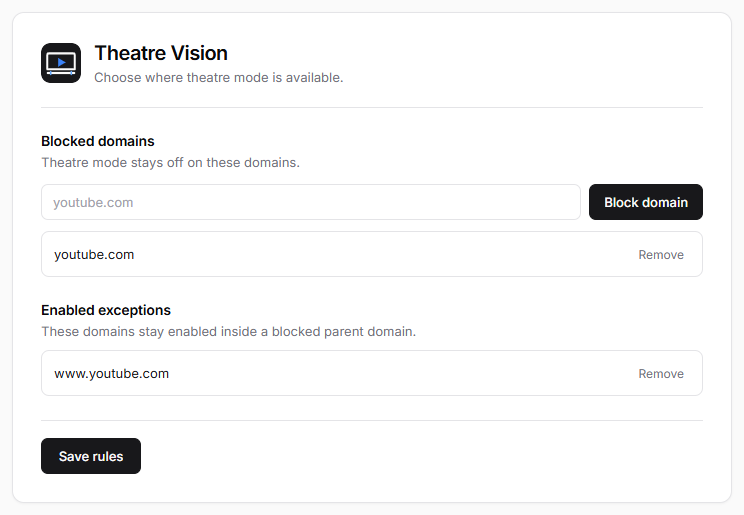
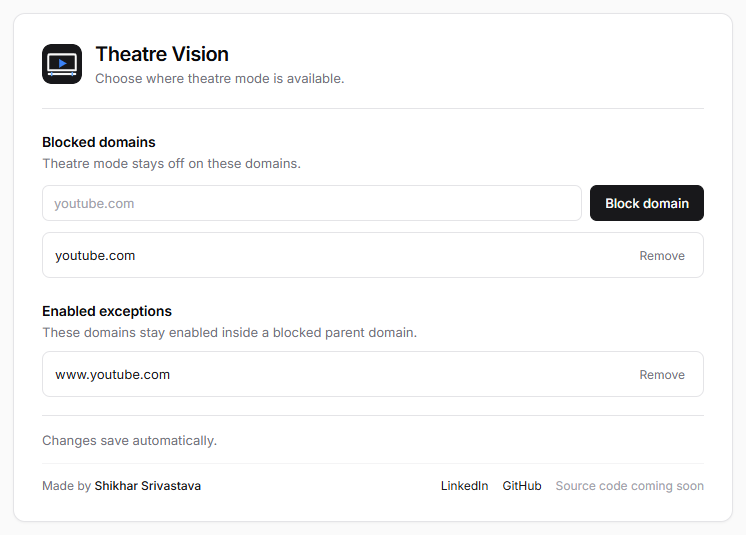
feat: auto-save site rules and add author links

diff --git a/options.js b/options.js
@@ -1,13 +1,14 @@
 const domainInput = document.getElementById("domainInput");
 const addButton = document.getElementById("addButton");
-const saveButton = document.getElementById("saveButton");
 const domainList = document.getElementById("domainList");
 const enabledList = document.getElementById("enabledList");
 const status = document.getElementById("status");
 
+const DEFAULT_STATUS = "Changes save automatically.";
 let disabledDomains = [];
 let enabledDomains = [];
 let statusTimer = 0;
+let saveQueue = Promise.resolve();
 
 function getStorage(defaults) {
   return new Promise((resolve, reject) => {
@@ -47,12 +48,12 @@ function normalizeDomains(domains) {
 
 function showStatus(message, isError = false) {
   clearTimeout(statusTimer);
-  status.textContent = message;
+  status.textContent = message || DEFAULT_STATUS;
   status.dataset.state = isError ? "error" : "info";
 
   if (message && !isError) {
     statusTimer = setTimeout(() => {
-      status.textContent = "";
+      status.textContent = DEFAULT_STATUS;
     }, 1800);
   }
 }
@@ -89,6 +90,7 @@ function renderDomainList(list, domains, emptyMessage) {
       }
 
       render();
+      void saveRules();
     });
 
     row.append(label, removeButton);
@@ -137,25 +139,28 @@ function addDomain() {
   domainInput.value = "";
   showStatus("");
   render();
+  void saveRules();
   domainInput.focus();
 }
 
-async function save() {
-  saveButton.disabled = true;
+async function saveRules() {
+  const rules = {
+    disabledDomains: [...disabledDomains],
+    enabledDomains: [...enabledDomains],
+  };
+  const saveOperation = saveQueue.catch(() => {}).then(() => setStorage(rules));
+  saveQueue = saveOperation;
 
   try {
-    await setStorage({ disabledDomains, enabledDomains });
-    showStatus("Site rules saved.");
+    await saveOperation;
+    showStatus("Saved automatically.");
   } catch (error) {
     console.error("[Theatre Vision] Could not save site rules.", error);
     showStatus("Could not save site rules.", true);
-  } finally {
-    saveButton.disabled = false;
   }
 }
 
 addButton.addEventListener("click", addDomain);
-saveButton.addEventListener("click", save);
 domainInput.addEventListener("keydown", (event) => {
   if (event.key === "Enter") addDomain();
 });

diff --git a/options.css b/options.css
@@ -190,14 +190,9 @@ button:disabled {
 .footer {
   display: flex;
   align-items: center;
-  gap: 12px;
-  margin-top: 24px;
-  padding-top: 17px;
+  min-height: 48px;
+  margin-top: 18px;
   border-top: 1px solid #e4e4e7;
-}
-
-.save {
-  min-width: 100px;
 }
 
 #status {
@@ -207,6 +202,44 @@ button:disabled {
 
 #status[data-state="error"] {
   color: #b91c1c;
+}
+
+.author {
+  display: flex;
+  flex-wrap: wrap;
+  align-items: center;
+  justify-content: space-between;
+  gap: 8px 16px;
+  padding-top: 14px;
+  border-top: 1px solid #f4f4f5;
+  color: #71717a;
+  font-size: 12px;
+}
+
+.author strong {
+  color: #18181b;
+  font-weight: 500;
+}
+
+.author-links {
+  display: flex;
+  flex-wrap: wrap;
+  align-items: center;
+  gap: 8px 14px;
+}
+
+.author-links a {
+  color: #18181b;
+  text-decoration: none;
+}
+
+.author-links a:hover {
+  text-decoration: underline;
+  text-underline-offset: 3px;
+}
+
+.source-placeholder {
+  color: #a1a1aa;
 }
 
 .visually-hidden {

diff --git a/options.html b/options.html
@@ -34,9 +34,17 @@
       </section>
 
       <footer class="footer">
-        <button id="saveButton" class="save" type="button">Save rules</button>
-        <span id="status" role="status" aria-live="polite"></span>
+        <span id="status" role="status" aria-live="polite">Changes save automatically.</span>
       </footer>
+
+      <section class="author" aria-label="About the author">
+        <p>Made by <strong>Shikhar Srivastava</strong></p>
+        <nav class="author-links" aria-label="Author links">
+          <a href="https://www.linkedin.com/in/itisshikhar" target="_blank" rel="noopener noreferrer">LinkedIn</a>
+          <a href="https://github.com/ItisShikhar" target="_blank" rel="noopener noreferrer">GitHub</a>
+          <span class="source-placeholder">Source code coming soon</span>
+        </nav>
+      </section>
     </main>
 
     <script src="domain-utils.js"></script>

diff --git a/README.md b/README.md
@@ -11,7 +11,7 @@ Theatre Vision expands HTML5 and embedded videos to fill the page. It keeps nati
 ## Features
 
 - Toggle theatre mode for the active site from the toolbar.
-- Block domains or add enabled exceptions for subdomains.
+- Add or remove blocked domains and enabled exceptions. Changes save automatically.
 - Press `Esc` to exit theatre mode.
 
 The most specific matching domain rule wins. Add `video.example.com` under enabled exceptions to override a rule for `example.com`.
@@ -32,8 +32,14 @@ Hover tooltips use the browser language. Supported languages include English, Hi
 1. Open a site with a video.
 2. Select the Theatre Vision toolbar icon.
 3. Turn theatre mode on or off for that site.
-4. Select **Manage** to edit site rules.
+4. Select **Manage** to edit site rules. Changes save when you add or remove a domain.
 5. Hover over a video and select the theatre control.
+
+## Author
+
+Made by [Shikhar Srivastava](https://www.linkedin.com/in/itisshikhar).
+
+[GitHub](https://github.com/ItisShikhar) · Source code coming soon.
 
 ## Test
 
